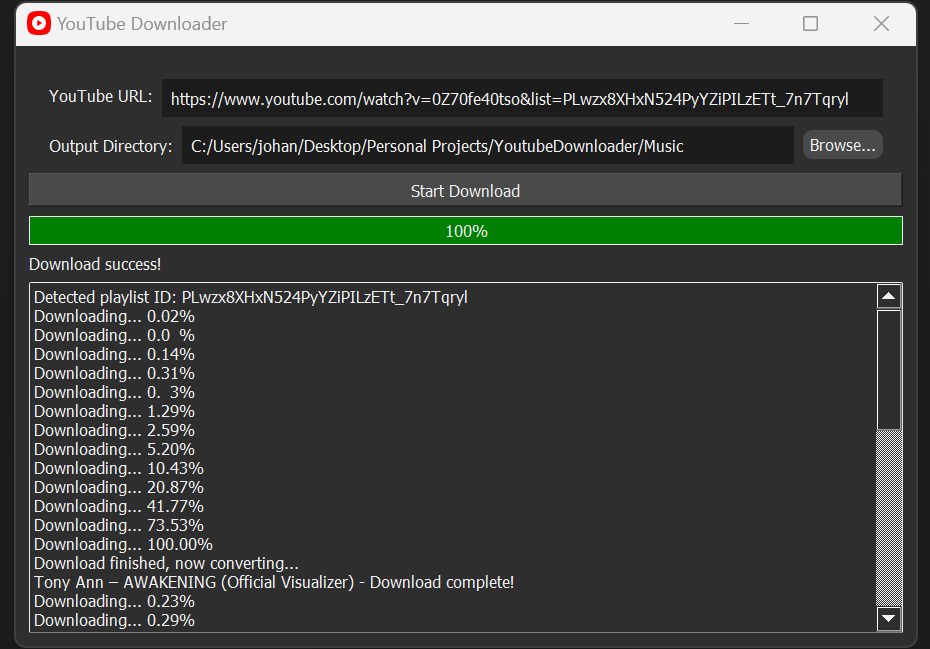
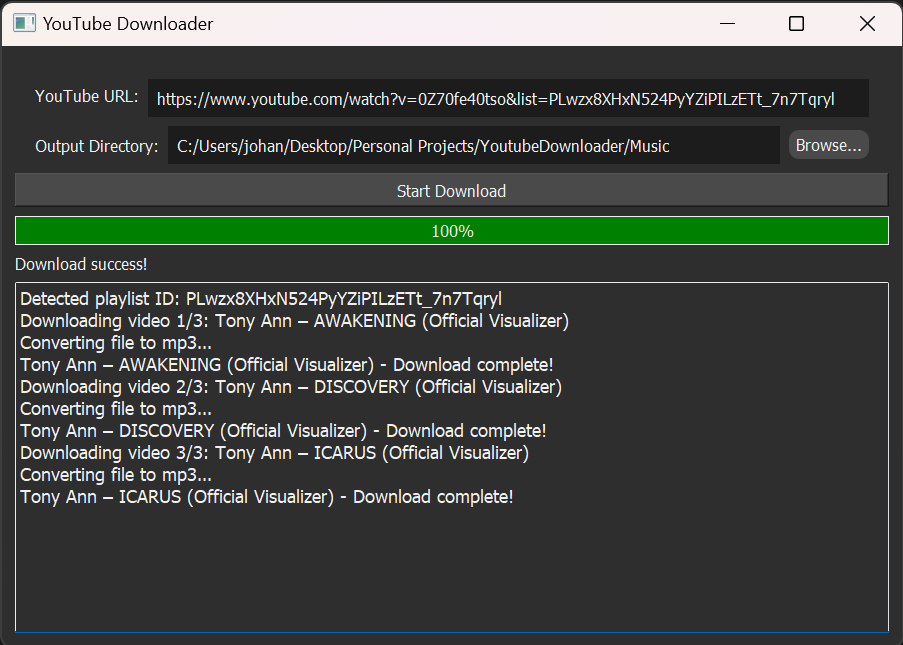
Logging change, text render fix

diff --git a/src/utils.py b/src/utils.py
@@ -1,6 +1,8 @@
 import yt_dlp
 import logging
 import time
+import os
+import sys
 from urllib.parse import urlparse, parse_qs
 
 # Setup logging
@@ -21,6 +23,10 @@ def download_video_as_mp3(video_url, output_directory, progress_callback=None, m
     attempt = 0
     while attempt < max_retries:
         try:
+            if hasattr(sys, '_MEIPASS'):
+                ffmpeg_location = os.path.join(sys._MEIPASS, 'ffmpeg.exe')  # Path to bundled ffmpeg
+            else:
+                ffmpeg_location = 'ffmpeg.exe'  # Fallback for when not bundled
             ydl_opts = {
                 'format': 'bestaudio/best',
                 'outtmpl': f'{output_directory}/%(title)s.%(ext)s',
@@ -29,7 +35,7 @@ def download_video_as_mp3(video_url, output_directory, progress_callback=None, m
                     'preferredcodec': 'mp3',
                     'preferredquality': '192',
                 }],
-                # 'ffmpeg_location': '/path/to/ffmpeg',  # Specify path if not in PATH
+                'ffmpeg_location': ffmpeg_location,  # Specify path if not in PATH
                 'progress_hooks': [lambda d: progress_hook(d, progress_callback)],  # Pass the progress callback
             }
 
@@ -63,7 +69,6 @@ def download_playlist_as_mp3_concurrently(playlist_url, output_directory, progre
         with yt_dlp.YoutubeDL(ydl_opts) as ydl:
             playlist_info = ydl.extract_info(playlist_url, download=False)
             video_entries = playlist_info['entries']
-            video_urls = [entry['url'] for entry in video_entries]
         
         # Track progress and video titles
         for idx, video_entry in enumerate(video_entries):
@@ -72,6 +77,7 @@ def download_playlist_as_mp3_concurrently(playlist_url, output_directory, progre
             # Start downloading and pass the video title to the progress callback
             if callable(progress_callback):
                 progress_callback(0, f"Downloading video {idx + 1}/{len(video_entries)}: {video_title}")
+            logging.info(f"Downloading video {idx + 1}/{len(video_entries)}: {video_title}")
             
             download_video_as_mp3(video_url, output_directory, lambda progress: progress_callback(progress, video_title))
         
@@ -104,11 +110,10 @@ def progress_hook(d, progress_callback=None):
         downloaded = d.get('downloaded_bytes', 0)
         if total_size > 0:
             progress = (downloaded / total_size) * 100
-            logging.info(f"Downloading... {progress:.2f}%")
             if callable(progress_callback):
                 progress_callback(progress)
     elif d['status'] == 'finished':
-        logging.info("Download finished, now converting...")
+        logging.info("Converting file to mp3...")
         # Set progress to 100 when done
         if callable(progress_callback):
             progress_callback(100)

diff --git a/src/main.py b/src/main.py
@@ -3,7 +3,7 @@ import logging
 import ctypes
 from PyQt5.QtWidgets import QApplication, QMainWindow, QPushButton, QLineEdit, QVBoxLayout, QWidget, QLabel, QFileDialog,QHBoxLayout, QProgressBar, QFormLayout, QTextEdit
 from PyQt5.QtCore import Qt, QThread, pyqtSignal
-from PyQt5.QtGui import QIcon
+from PyQt5.QtGui import QIcon, QFont
 
 from utils import download_video_or_playlist
 
@@ -16,6 +16,7 @@ class QTextEditLogger(logging.Handler):
     def emit(self, record):
         msg = self.format(record)
         self.text_edit.append(msg)
+        self.text_edit.verticalScrollBar().setValue(self.text_edit.verticalScrollBar().maximum())  # Scroll to bottom
         QApplication.processEvents()  # Ensure logs update in real-time
 
 
@@ -51,7 +52,6 @@ class DownloadApp(QMainWindow):
         self.setWindowTitle("YouTube Downloader")
         self.setGeometry(1000, 500, 900, 600)
         ctypes.windll.shell32.SetCurrentProcessExplicitAppUserModelID("mycompany.myproduct.subproduct.version")
-        self.setWindowIcon(QIcon("icon.png"))
 
         self.initUI()
         self.setup_logging()
@@ -124,6 +124,7 @@ class DownloadApp(QMainWindow):
         self.log_text = QTextEdit(self)
         self.log_text.setReadOnly(True)
 
+
         # Horizontal layout for output directory and Browse button
         output_layout = QHBoxLayout()
         output_layout.addWidget(self.output_label)
@@ -156,6 +157,8 @@ class DownloadApp(QMainWindow):
         log_handler.setFormatter(logging.Formatter('%(message)s'))
         logging.getLogger().addHandler(log_handler)
         logging.getLogger().setLevel(logging.INFO)
+        
+        self.log_text.setFont(QFont('Helvetica', 9))  # Change font to Arial for testing
 
     def browse_directory(self):
         directory = QFileDialog.getExistingDirectory(self, "Select Directory")
@@ -189,6 +192,7 @@ class DownloadApp(QMainWindow):
 
 if __name__ == "__main__":
     app = QApplication(sys.argv)
+    app.setWindowIcon(QIcon("icon.ico"))  # Set the taskbar icon here
     window = DownloadApp()
     window.show()
     sys.exit(app.exec_())

diff --git a/README.md b/README.md
@@ -56,5 +56,13 @@ A Python tool that downloads YouTube videos and playlists as `.mp3` files.
 
     It will then put the file inside the existing directory or create one if not.
 
+## Disclaimer
+This app is intended for personal use only. It is not intended for commercial purposes, distributing or sharing copyrighted material without proper authorization from the content owners or in violation of Youtube's terms of service.
+
+By using this application you agree to use the downloaded content according to the copyright laws and regulations and accept full
+responsibility for any misuse or violations.
+
+The developers of this application shall not be held liable for any unauthorized or improper use of the downloaded content. Users are solely responsible for their actions and are encouraged to use this application responsibly and ethically.
+
 ## License
 MIT License
